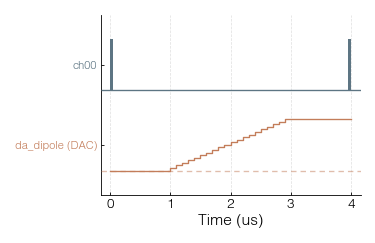
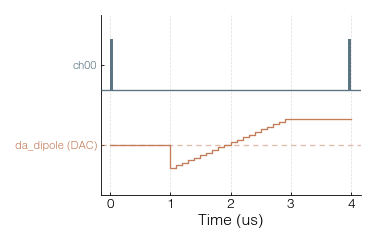
Double self-check pass over signed-DAC + period names: residue + hardening
PASS 1 (direct sweep) found and fixed:
- quickstart "Analog bus notes" still claimed unsigned 0..1023 -> rewritten to the
  signed contract (-512..+511, 0 = 0 V, offset-binary wire note); notebook regenerated.
- frontend tutorial's bus-overview line had the same stale claim -> fixed + regenerated.
- the fpga manual's DAC-ramp figure was generated from unsigned codes 0..1023 ->
  now a signed -512..+511 ramp with min/max trace keys (0 V sits mid-row); PDF rebuilt.
- the U4 done-branch RTL comment said the post-done pushes are "zeros" -- stale for
  buses, which now clear to BUS_SAFE_VALUE (mid code): comment corrected.
- audited every bus_value() consumer (all correctly code-domain) and the stored pulse
  JSONs (only value: 0 entries, whose new meaning -- 0 V -- is the desired default).
- probe: the in-place scan refresh preserves period names (verified live).

PASS 2 (4 adversarial review agents) verdicts: RTL+mirrors CLEAN (explicitly verified
the U4 done-branch now pushes the mid code so a delayed bus settles at 0 V);
GUI+preview CLEAN.  Items applied:
- point_slot_value: a dac slot with a missing range now RAISES instead of leaking a
  signed value into the wire-layer scan_points (defensive hard gate).
- with_slots_resolved + PulseController.set_slot docstrings state the SIGNED dac
  semantics explicitly (never pass raw codes).
- live.py documents the trace min/max contract for signed scaling.
- pack round-trip test comments that its 1023 is a wire-layer code.
[…]

diff --git a/Zou_lab_control/neutral_atom/devices/sequencer.py b/Zou_lab_control/neutral_atom/devices/sequencer.py
@@ -587,12 +587,15 @@ def compile_pulse_table_scan_runtime_program(
             # formula).  code = signed + 2^(B-1), clamped to [0, 2^B-1].
             signed = int(round(float(ns[slot_var(slot_index)])))
             rng = dac_slot_ranges[slot_index]
-            if rng is not None:
-                lo, hi = int(rng[0]), int(rng[1])
-                signed = max(lo, min(hi, signed))
-                zero_code = -lo                       # lo == -2^(B-1)
-                return signed + zero_code
-            return signed
+            if rng is None:
+                # scan_slot_dac_ranges() returns a range for EVERY dac slot; a missing one
+                # means the slot/bus wiring is broken -- never leak a SIGNED value into the
+                # wire-layer scan_points (the FPGA would read it as a raw code).
+                raise ValueError(f"dac scan slot {slot_index} has no bus range; cannot convert to a wire code.")
+            lo, hi = int(rng[0]), int(rng[1])
+            signed = max(lo, min(hi, signed))
+            zero_code = -lo                           # lo == -2^(B-1)
+            return signed + zero_code
         return _time_ns_to_ticks(
             ns[slot_var(slot_index)], clock_step_ns, f"scan point {point_index} slot {slot_index}", allow_negative=True
         )
@@ -1214,6 +1217,11 @@ class PulseController:
         self.last_program: RuntimeSequenceProgram | None = None
 
     def set_slot(self, key: int | str, value: float) -> "PulseController":
+        """Set one scan-slot value for single-shot resolves.
+
+        Time slots take ns.  DAC slots take the SIGNED user value (0 = true 0 V,
+        -2^(B-1)..+2^(B-1)-1); the offset-binary wire code is produced by the
+        compiler -- never pass a raw 0..1023 code here."""
         name = key if isinstance(key, str) else slot_var(int(key))
         self.slots[name] = float(value)
         return self

diff --git a/Zou_lab_control/neutral_atom/content/manuals.py b/Zou_lab_control/neutral_atom/content/manuals.py
@@ -151,13 +151,14 @@ def generate_fpga_manual_figures(asset_dir: str | Path) -> dict[str, Path]:
                                        show_names=True, repeat_bracket=(0.0, dur, "repeat x N (HW loop, seamless)"),
                                        caption="硬件重复 loop")
 
-    # (4) analog DAC ramp via the frontend analog trace: hold 0 -> ramp 0..1023 -> hold.
+    # (4) analog DAC ramp via the frontend analog trace: rest at 0 V -> ramp the SIGNED
+    # value -512..+511 -> hold (the user layer is signed LSB; 0 V sits mid-row).
     ramp_t = list(np.linspace(1e-6, 3e-6, 21))
-    ramp_v = [int(v) for v in np.linspace(0, 1023, 21)]
+    ramp_v = [int(v) for v in np.linspace(-512, 511, 21)]
     starts = [0.0, 1e-6] + ramp_t[1:] + [4e-6]
-    values = [0] + ramp_v[1:] + [1023]
+    values = [0] + ramp_v[1:] + [511]
     dac_trace = {"name": "da_dipole", "label": "da_dipole (DAC)", "members": [f"d{i}" for i in range(10)],
-                 "max": 1023, "starts": starts, "values": values}
+                 "min": -512, "max": 511, "starts": starts, "values": values}
     # start + end marker pulses so the timeline x-axis spans the full 0..4 us and the
     # ramp (1..3 us) is on-screen.
     dctx = na.PulseTableState(

diff --git a/tests/test_neutral_atom_lightweight.py b/tests/test_neutral_atom_lightweight.py
@@ -1444,6 +1444,8 @@ def test_final_image_solver_90pct_and_packs_round_trip():
     assert out["scan_points_resident"] == [list(pt) for pt in prog.scan_points]
     assert out["scan_count"] == 5 and out["loop_count"] == 3 and out["repeat_forever"]
     b = out["bus_segments"][0]
+    # stop_value=1023 is a WIRE-LAYER offset-binary code (= signed +511); pack/unpack
+    # operate purely on the wire layer, so raw codes are correct here.
     assert b["mode"] == "ramp" and b["stop_value"] == 1023 and b["value_select"] == 2
     # a streamed chunk (beyond the resident window) packs into the right bank.
     assert scan_bank_words(prog, p, 0)  # chunk 0 non-empty

diff --git a/Zou_lab_control/frontend/content/notebook_templates/neutral_atom_hardware_quickstart.cells.md b/Zou_lab_control/frontend/content/notebook_templates/neutral_atom_hardware_quickstart.cells.md
@@ -269,9 +269,12 @@ ramp: linearly move from the previous value to the target value over the period
 hold: keep the current value; no numeric field is shown
 ```
 
-The numeric field is a line edit, not a spinbox. For a 10-bit bus the GUI clamps
-the value to `0..1023`. Preview draws one hollow stair-step line for the bus
-value instead of drawing all ten TTL bits. The runtime uploads bus rows through
+The numeric field is a line edit, not a spinbox. Values are SIGNED LSB counts:
+for a 10-bit bus the GUI clamps to `-512..+511`, and `0` means TRUE 0 V (the
+driver is offset-binary; the wire code = value + 512 is produced by the
+compiler, and an idle bus rests at 0 V). Preview draws one stair-step line for
+the bus value instead of drawing all ten TTL bits, with the 0 V dashed
+reference mid-row and negative values below it. The runtime uploads bus rows through
 the FPGA analog-bus segment table, not by expanding every stair step into the
 ordinary digital edge table, so the digital edge budget remains available for
 lasers, shutters, camera, and trigger TTLs.

diff --git a/Zou_lab_control/frontend/content/notebook_templates/frontend_tutorial.cells.md b/Zou_lab_control/frontend/content/notebook_templates/frontend_tutorial.cells.md
@@ -192,7 +192,7 @@ arms qCMOS first and then fires a finite trigger sequence. Free-running
 `repeat_forever=True` is useful for scope checks, not for a finite camera stack.
 
 Analog bus rows such as `da_dipole` or `da_bias_x/y/z` are folded views of
-10-bit TTL groups. Their GUI value field is a line edit clamped to `0..1023`.
+10-bit TTL groups. Their GUI value field is a line edit clamped to the SIGNED range `-512..+511` (0 = true 0 V; the offset-binary wire code = value + 512 is produced by the compiler).
 Preview draws one hollow stair-step analog trace. The runtime uploads these rows
 through the FPGA analog-bus segment table, so a long bus ramp costs one bus
 segment instead of one ordinary TTL `prog_mask` edge per stair step.